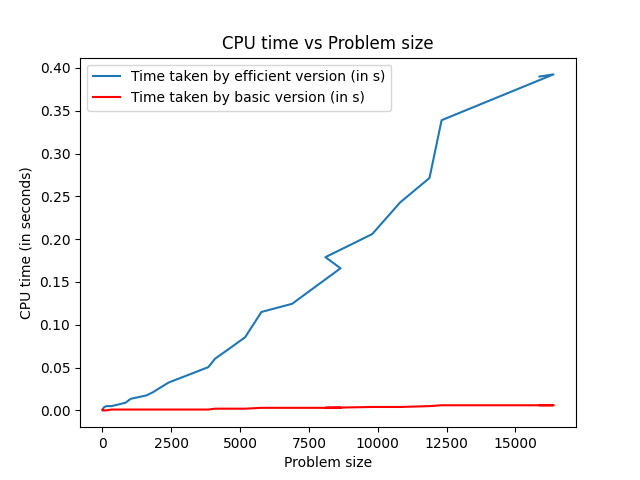
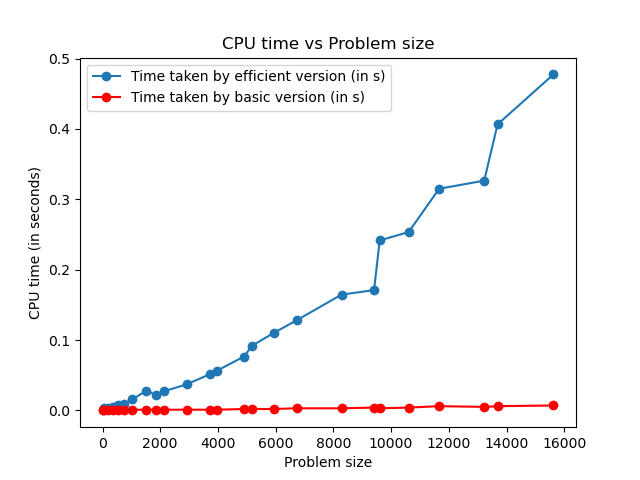
Included marker points for line plot

diff --git a/graph_plot/script.py b/graph_plot/script.py
@@ -1,13 +1,14 @@
 import os
 import random
+from matplotlib import markers
 import pandas as pd
 import matplotlib.pyplot as plt
 
 def plot(opt_df, non_opt_df):
     # gca stands for 'get current axis'
     ax = plt.gca()
-    opt_df.plot(kind='line',x='problem_size',y='time',ax=ax)
-    non_opt_df.plot(kind='line',x='problem_size',y='time', color='red', ax=ax)
+    opt_df.plot(kind='line',x='problem_size',y='time',ax=ax, marker='o')
+    non_opt_df.plot(kind='line',x='problem_size',y='time', color='red', ax=ax, marker='o')
     plt.xlabel('Problem size')
     plt.ylabel('CPU time (in seconds)')
     plt.title('CPU time vs Problem size')
@@ -15,8 +16,8 @@ def plot(opt_df, non_opt_df):
     plt.savefig('CPUPlot.png')
     plt.show()
     ax = plt.gca()
-    opt_df.plot(kind='line',x='problem_size',y='memory',ax=ax)
-    non_opt_df.plot(kind='line',x='problem_size',y='memory', color='red', ax=ax)
+    opt_df.plot(kind='line',x='problem_size',y='memory',ax=ax, marker='o')
+    non_opt_df.plot(kind='line',x='problem_size',y='memory', color='red', ax=ax, marker='o')
     plt.xlabel('Problem size')
     plt.ylabel('Memory (in Kb)')
     plt.title('Memory usage vs Problem size')
